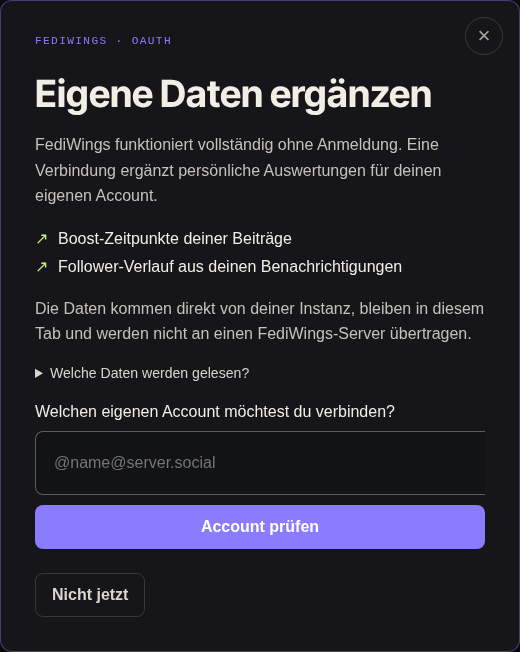
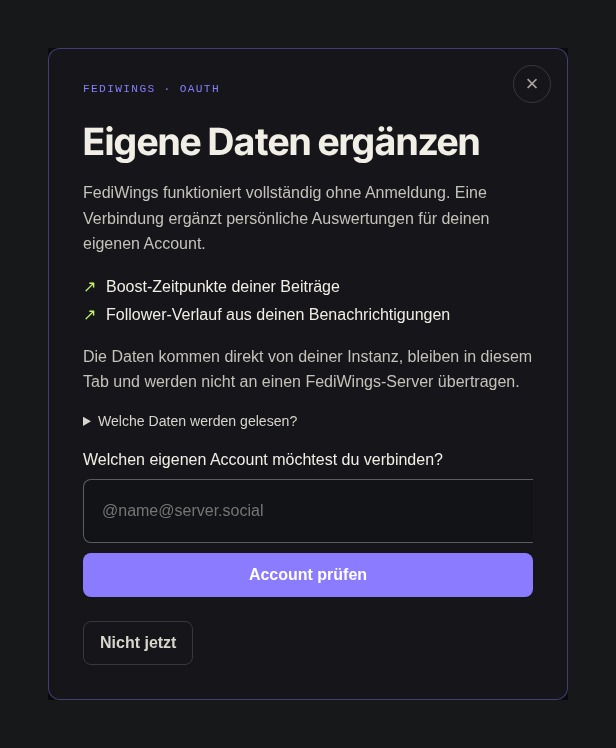
docs: add real share card and give screenshots breathing room

diff --git a/docs/screenshots/README.md b/docs/screenshots/README.md
@@ -4,16 +4,17 @@ Stand: **08.11.2026**. Echte Chromium-Aufnahmen der FediWings-Oberfläche mit
 öffentlichen Daten von [rstockm@chaos.social](https://chaos.social/@rstockm).
 Keine API-Mocks, erfundenen Kennzahlen oder angemeldeten Sitzungen.
 
-| Datei                   | Bereich                                                              |
-| ----------------------- | -------------------------------------------------------------------- |
-| `start.png`             | Startseite mit vorausgefülltem Handle, noch ohne Analyse             |
-| `analyse-desktop.png`   | Abgeschlossene öffentliche Analyse und Accountübersicht              |
-| `analyse-mobile.png`    | Dieselbe Analyse bei 390 Pixel Breite                                |
-| `posting-insights.png`  | Vier Kennzahlen im 30-Tage-Vergleich                                 |
-| `thread-details.png`    | Aufgeklappter eigener Thread mit Folgebeitrag und Long-Tail-Vorschau |
-| `follower.png`          | Öffentliche Followerzahl und Login-Grenze                            |
-| `instanzverbindung.png` | Erklärung der optionalen OAuth-Verbindung, vor der Anmeldung         |
-| `methodik.png`          | Einstieg in die Methodikseite                                        |
+| Datei                   | Bereich                                                                           |
+| ----------------------- | --------------------------------------------------------------------------------- |
+| `start.png`             | Startseite mit vorausgefülltem Handle, noch ohne Analyse                          |
+| `analyse-desktop.png`   | Abgeschlossene öffentliche Analyse und Accountübersicht                           |
+| `analyse-mobile.png`    | Dieselbe Analyse bei 390 Pixel Breite                                             |
+| `posting-insights.png`  | Vier Kennzahlen im 30-Tage-Vergleich                                              |
+| `thread-details.png`    | Aufgeklappter eigener Thread mit Folgebeitrag und Long-Tail-Vorschau              |
+| `follower.png`          | Öffentliche Followerzahl und Login-Grenze                                         |
+| `instanzverbindung.png` | Erklärung der optionalen OAuth-Verbindung, vor der Anmeldung                      |
+| `methodik.png`          | Einstieg in die Methodikseite                                                     |
+| `share-card.png`        | Echte, über den Card Service erzeugte Karte für einen öffentlichen FediPol-Thread |
 
 ## Aktualisieren
 
@@ -26,17 +27,26 @@ Keine API-Mocks, erfundenen Kennzahlen oder angemeldeten Sitzungen.
    aufnehmen. Die graue Long-Tail-Kurve nicht als echte Boost-Historie beschriften.
 5. Im Follower-Tab die öffentlichen Daten laden; die Instanzverbindung nur bis
    zum Erklärdialog öffnen. Keine Tokens oder privaten Benachrichtigungen aufnehmen.
-6. Methodikseite aufnehmen, alle Bilder visuell prüfen und Datum, Alt-Texte und
+6. Eine Share-Card nur auf Auftrag erzeugen: Das Öffnen des Teilen-Dialogs
+   veröffentlicht beim konfigurierten Card Service bereits den öffentlichen
+   Snapshot. Für diese Dokumentation wurde auf ausdrücklichen Wunsch eine Karte
+   des gezeigten FediPol-Threads erstellt; das erzeugte Kartenbild wird lokal
+   versioniert und nicht nur vom Service eingebunden.
+7. Methodikseite aufnehmen, alle Bilder visuell prüfen und Datum, Alt-Texte und
    README-Beschreibungen gemeinsam aktualisieren. Ausschnitte statt langer,
    unlesbarer Ganzseitenaufnahmen bevorzugen.
+8. Allen Bildern einen ruhigen, zum Hintergrund passenden Außenrand geben:
+   48 Pixel bei Desktop/Karte, 56 Pixel bei den Posting Insights und 24 Pixel
+   mobil. Der Rand wird nach der Aufnahme ergänzt; App-Inhalte und Kennzahlen
+   bleiben unverändert. Überschriften, Kartenrahmen und Schatten nicht am Rand
+   abschneiden. Die Viewportgrößen oben verstehen sich ohne diesen Außenrand.
 
 ## Bewusst nicht abgebildet
 
 - Authentifizierte Follower-Charts und echte Boost-Zeitverläufe: benötigen die
   ausdrückliche Anmeldung des Accountinhabers und eine Prüfung privater Inhalte.
-- Share-Karten-Dialog: Das Öffnen erzeugt bei konfiguriertem Service bereits eine
-  öffentliche Karte. Für diese Dokumentation wurde keine Karte veröffentlicht.
-  Die Teilen-Aktion ist auf der Thread-Aufnahme sichtbar.
+- Share-Karten-Dialog mit Betriebssystem-/Clipboard-Aktionen: Stattdessen ist das
+  tatsächliche Ergebnis als `share-card.png` abgebildet.
 
 Die Bilder dienen der Dokumentation und werden nicht mit der App ausgeliefert.
 Öffentliche Posts und eingebettete Medien behalten die Rechte ihrer jeweiligen

diff --git a/README.md b/README.md
@@ -21,7 +21,13 @@ Reichweite, Interaktionen, Likes und Boosts im Zeitverlauf — jeweils mit dem v
 
 ## Einblicke
 
-Aufgenommen am **08.11.2026** mit öffentlichen Live-Daten von **[rstockm@chaos.social](https://chaos.social/@rstockm)**. Zahlen und Beiträge sind Momentaufnahmen, keine festen Demo-Werte. Desktop: 1440 Pixel, Mobilansicht: 390 Pixel breit; einzelne Bereiche sind zugeschnitten.
+Aufgenommen am **08.11.2026** mit öffentlichen Live-Daten von **[rstockm@chaos.social](https://chaos.social/@rstockm)**. Zahlen und Beiträge sind Momentaufnahmen, keine festen Demo-Werte. Desktop-Viewport: 1440 Pixel, Mobilansicht: 390 Pixel breit; einzelne Bereiche sind zugeschnitten und alle Aufnahmen haben zusätzlichen Außenabstand.
+
+### Ergebnisse als Share-Card
+
+Eine echte, mit FediWings erstellte Vorschaukarte für einen öffentlichen Thread: mit Profil, Beitragstext, Vorschaubild und Reichweitenkennzahlen. Die Karte lässt sich als Bildvorschau über einen öffentlichen Share-Link teilen.
+
+![FediWings-Share-Card für einen Thread von Ralf Stockmann über FediPol mit Profilbild, Beitragsvorschau, 28.060 geschätzter Netto-Reichweite, 61 Likes und 37 Boosts](docs/screenshots/share-card.png)
 
 ### Threads und Reichweite im Detail
 
